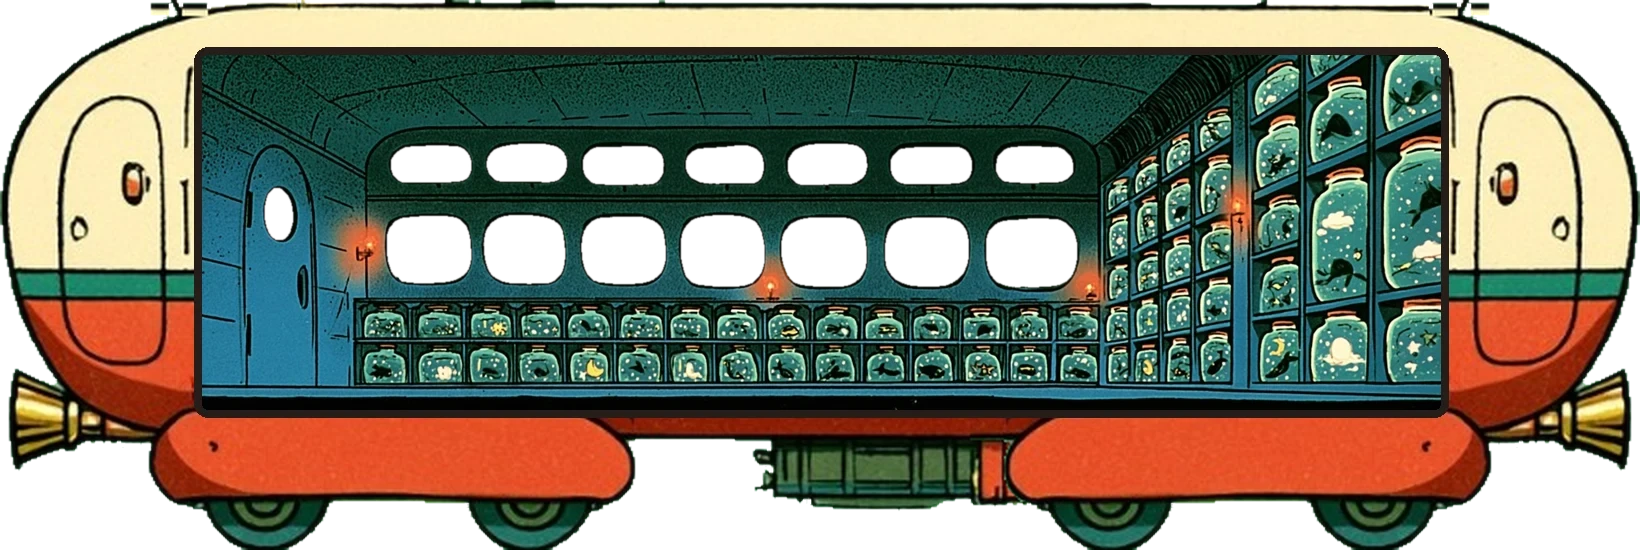
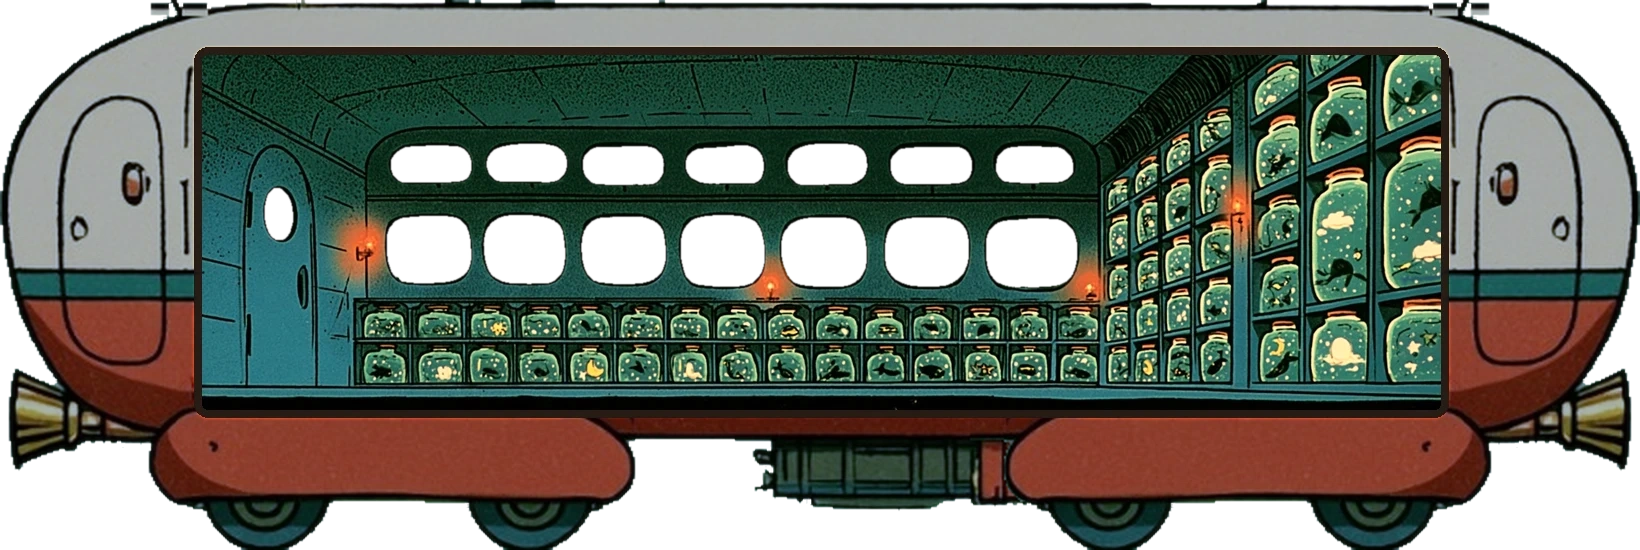
열차 밤 색보정을 그림에 정확한 실내 경계로 미리 구움(얼룩 제거), 예전 창가 주소도 새 화면으로 연결
Claude-Session: https://claude.ai/code/session_015fNbvzvz4xuREQtMjmLhTY

diff --git a/stage/index.html b/stage/index.html
@@ -129,7 +129,7 @@ const train=new THREE.Group();scene.add(train);
 const cars=[];let x=0;
 for(const [k,name] of ORDER){
   const w=(k==='loco'?2856:1640)*PX,h=(k==='loco'?680:550)*PX;
-  const p=new THREE.Mesh(new THREE.PlaneGeometry(w,h),carMat(tex('car_'+k+'.webp'),k==='loco'?[2163/2856,1-556/680,2577/2856,1-278/680]:[193/1640,1-418/550,1449/1640,1-47/550]));p.renderOrder=6;
+  const p=plane(tex('car_'+k+'.webp'),w,h);p.renderOrder=6;
   p.position.set(x+w/2,h/2-0.03,0);p.userData={k,name,w,h,ph:Math.random()*6};train.add(p);cars.push(p);x+=w-0.22;
 }
 const TRAINW=x;train.position.x=-TRAINW/2;
@@ -195,6 +195,7 @@ function goSeat(){if(busy)return;busy=true;
 function goOut(){if(busy)return;busy=true;fadeEl.classList.add('on');
   setTimeout(()=>{setMode('out');dist=minD;focus=null;tgtD=fitD();seatB.textContent='내 창가 자리 →';clock();fadeEl.classList.remove('on');busy=false},380)}
 seatB.onclick=e=>{e.stopPropagation();MODE==='out'?goSeat():goOut()};
+if(new URLSearchParams(location.search).has('seat'))setTimeout(()=>{setMode('seat');camX=tgtX=train.position.x+cars.find(c=>c.userData.k==='sleep').position.x;dist=tgtD=fitD();seatB.textContent='← 열차 전체 보기'},0);
 let hinted=0;function hint(){if(hinted)return;hinted=1;setTimeout(()=>document.getElementById('hint').style.opacity=0,1500)}
 function fitD(){return MD.fit()}
 function resize(){R.setSize(innerWidth,innerHeight);cam.aspect=innerWidth/innerHeight;

diff --git a/stage/window.html b/stage/window.html
@@ -1,0 +1,1 @@
+<!DOCTYPE html><meta charset="utf-8"><meta http-equiv="refresh" content="0;url=./?seat"><script>location.replace("./?seat")</script>
